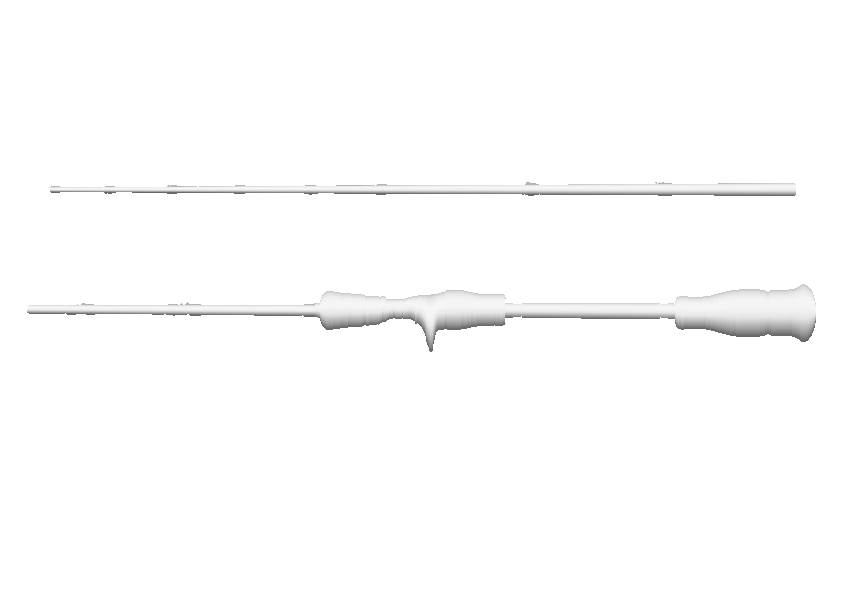
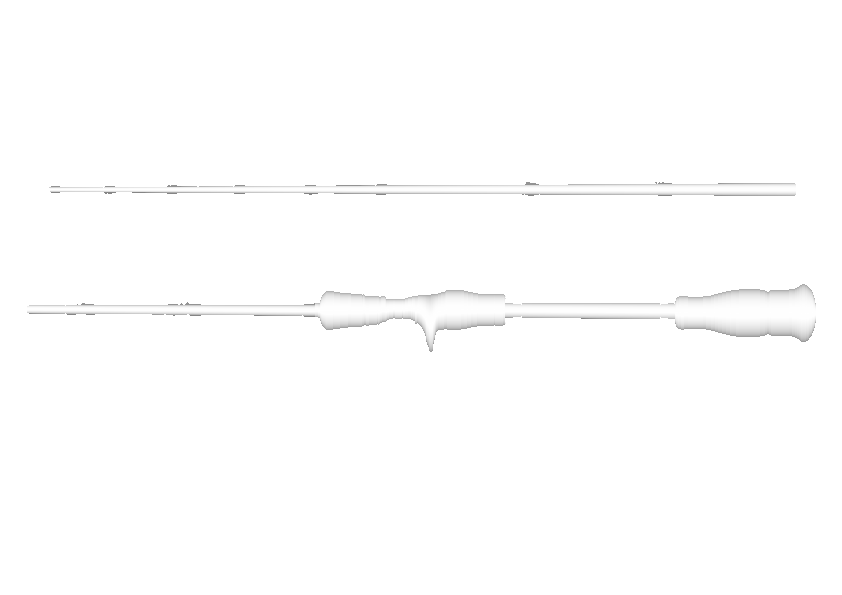
シミュレーター：陰影を調整し、選んだ色がそのままの色味で見えるように

Changed region(s): [[0.0309, 0.5143, 0.9881, 0.605], [0.0618, 0.3025, 0.9572, 0.3328]]

diff --git a/simulator.html b/simulator.html
@@ -97,7 +97,7 @@
     .part-layer[data-part="tip"] { -webkit-mask-image:url(sim-masks/tip.png); mask-image:url(sim-masks/tip.png); }
     .part-layer[data-part="thread"] { -webkit-mask-image:url(sim-masks/thread.png); mask-image:url(sim-masks/thread.png); }
     .part-layer[data-part="tipthread"] { -webkit-mask-image:url(sim-masks/tipthread.png); mask-image:url(sim-masks/tipthread.png); }
-    .part-layer[data-part="reelseat"] { -webkit-mask-image:url(sim-masks/reelseat.png?v=8); mask-image:url(sim-masks/reelseat.png?v=8); }
+    .part-layer[data-part="reelseat"] { -webkit-mask-image:url(sim-masks/reelseat.png?v=10); mask-image:url(sim-masks/reelseat.png?v=10); }
     .part-layer[data-part="grip"] { -webkit-mask-image:url(sim-masks/grip.png); mask-image:url(sim-masks/grip.png); }
     #rod-diagram-container img { display:block; width:100%; mix-blend-mode:multiply; position:relative; z-index:1; }
 
@@ -277,8 +277,8 @@
         <div class="part-layer" data-part="tipthread"></div>
         <div class="part-layer" data-part="reelseat"></div>
         <div class="part-layer" data-part="grip"></div>
-        <div class="fx-layer" style="background-image:url(sim-masks/shade.png?v=8);mix-blend-mode:multiply"></div>
-        <div class="fx-layer" style="background-image:url(sim-masks/gloss.png?v=8);mix-blend-mode:screen"></div>
+        <div class="fx-layer" style="background-image:url(sim-masks/shade.png?v=10);mix-blend-mode:multiply"></div>
+        <div class="fx-layer" style="background-image:url(sim-masks/gloss.png?v=10);mix-blend-mode:screen"></div>
       </div>
 
       <!-- Rod line drawing on top — multiply blend preserves black outlines perfectly -->
@@ -638,7 +638,7 @@ document.getElementById('btn-save').addEventListener('click', function() {
   var ctx = canvas.getContext('2d');
   ctx.fillStyle = '#ffffff';
   ctx.fillRect(0, 0, W, H);
-  var srcs = parts.map(function(p){ return 'sim-masks/' + p + '.png?v=8'; }).concat(['sim-masks/shade.png?v=8','sim-masks/gloss.png?v=8','rod-diagram@4x.png']);
+  var srcs = parts.map(function(p){ return 'sim-masks/' + p + '.png?v=10'; }).concat(['sim-masks/shade.png?v=10','sim-masks/gloss.png?v=10','rod-diagram@4x.png']);
   var imgs = srcs.map(function(s){ var i = new Image(); i.src = s; return i; });
   Promise.all(imgs.map(function(i){ return i.decode(); })).then(function() {
     parts.forEach(function(p, k) {

diff --git a/simulator-demo.html b/simulator-demo.html
@@ -94,7 +94,7 @@
     .part-layer[data-part="tip"] { -webkit-mask-image:url(sim-masks/tip.png); mask-image:url(sim-masks/tip.png); }
     .part-layer[data-part="thread"] { -webkit-mask-image:url(sim-masks/thread.png); mask-image:url(sim-masks/thread.png); }
     .part-layer[data-part="tipthread"] { -webkit-mask-image:url(sim-masks/tipthread.png); mask-image:url(sim-masks/tipthread.png); }
-    .part-layer[data-part="reelseat"] { -webkit-mask-image:url(sim-masks/reelseat.png?v=8); mask-image:url(sim-masks/reelseat.png?v=8); }
+    .part-layer[data-part="reelseat"] { -webkit-mask-image:url(sim-masks/reelseat.png?v=10); mask-image:url(sim-masks/reelseat.png?v=10); }
     .part-layer[data-part="grip"] { -webkit-mask-image:url(sim-masks/grip.png); mask-image:url(sim-masks/grip.png); }
     #rod-diagram-container img { display:block; width:100%; mix-blend-mode:multiply; position:relative; z-index:1; }
 
@@ -256,8 +256,8 @@
         <div class="part-layer" data-part="tipthread"></div>
         <div class="part-layer" data-part="reelseat"></div>
         <div class="part-layer" data-part="grip"></div>
-        <div class="fx-layer" style="background-image:url(sim-masks/shade.png?v=8);mix-blend-mode:multiply"></div>
-        <div class="fx-layer" style="background-image:url(sim-masks/gloss.png?v=8);mix-blend-mode:screen"></div>
+        <div class="fx-layer" style="background-image:url(sim-masks/shade.png?v=10);mix-blend-mode:multiply"></div>
+        <div class="fx-layer" style="background-image:url(sim-masks/gloss.png?v=10);mix-blend-mode:screen"></div>
       </div>
       <img src="rod-diagram@4x.png" alt="rod diagram"/>
     </div>
@@ -745,7 +745,7 @@ document.getElementById('btn-save').addEventListener('click', function() {
   var ctx = canvas.getContext('2d');
   ctx.fillStyle = '#ffffff';
   ctx.fillRect(0, 0, W, H);
-  var srcs = parts.map(function(p){ return 'sim-masks/' + p + '.png?v=8'; }).concat(['sim-masks/shade.png?v=8','sim-masks/gloss.png?v=8','rod-diagram@4x.png']);
+  var srcs = parts.map(function(p){ return 'sim-masks/' + p + '.png?v=10'; }).concat(['sim-masks/shade.png?v=10','sim-masks/gloss.png?v=10','rod-diagram@4x.png']);
   var imgs = srcs.map(function(s){ var i = new Image(); i.src = s; return i; });
   Promise.all(imgs.map(function(i){ return i.decode(); })).then(function() {
     parts.forEach(function(p, k) {
